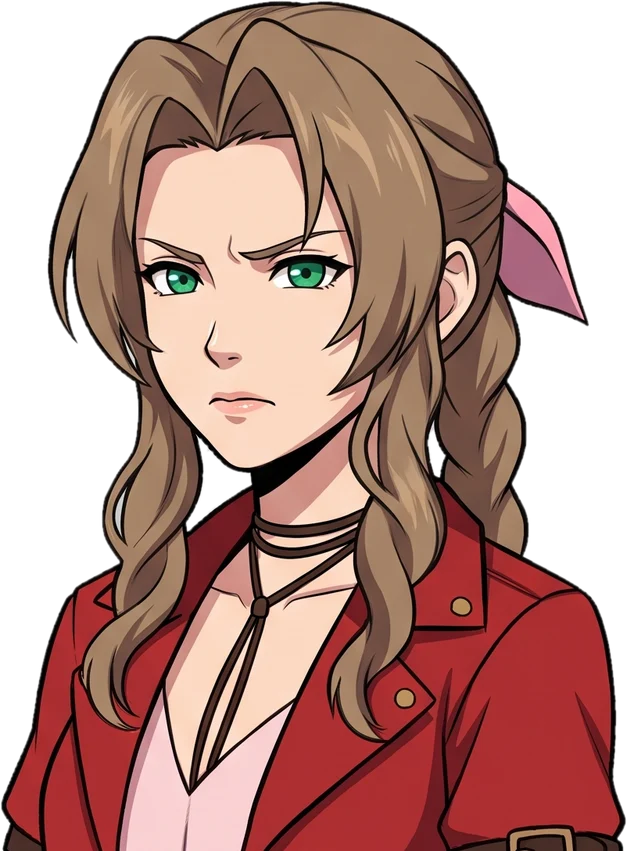
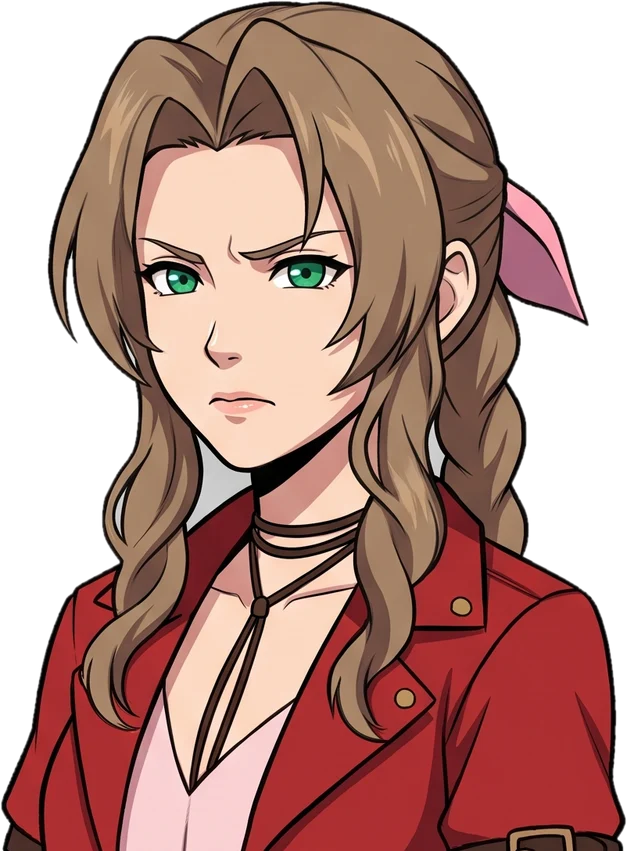
Ana's portraits; sheet tool keeps background-colored fabric patches

Changed region(s): [[0.2701, 0.5194, 0.4202, 0.6416], [0.6603, 0.4888, 0.7204, 0.5499]]

diff --git a/assets/femc/links/mercy.js b/assets/femc/links/mercy.js
@@ -394,24 +394,24 @@ FemcSocial.define({
     { after: '7/23', title: '4: ana', place: 'Tatsumi Memorial Hospital · Staff Lounge', scene: [
       { n: "The staff lounge had a broken air conditioner and a fridge full of other people's lunches, and on this particular afternoon it had an old woman in it, sitting in Angela's chair, drinking Angela's tea, with an eye patch and a sniper rifle leaned casually against the vending machine." },
       { register: 'ana' },
-      { s: 'ana', t: "So this is the girl. Habibti, she's younger than you said." },
+      { s: 'ana', f: 'happy', t: "So this is the girl. Habibti, she's younger than you said." },
       { s: 'mercy', f: 'surprised', t: "Ana! I didn't say anything about her!" },
-      { s: 'ana', t: "You didn't have to. You keep looking at the door." },
+      { s: 'ana', f: 'neutral', t: "You didn't have to. You keep looking at the door." },
       { n: "Ana Amari looked at Solar the way grandmothers look at people their grandchildren bring home, which was to say thoroughly, skeptically, and with the clear understanding that she had seen a great deal and would not be easily impressed." },
-      { s: 'ana', t: "And do you take care of her? Or does she take care of you?" },
+      { s: 'ana', f: 'neutral', t: "And do you take care of her? Or does she take care of you?" },
       { choose: [
-        { t: "Both, I think.", notes: 3, then: [{ s: 'ana', t: "Good answer. The only right one." }] },
+        { t: "Both, I think.", notes: 3, then: [{ s: 'ana', f: 'happy', t: "Good answer. The only right one." }] },
         { t: "Nobody takes care of Angela. She won't let them.", notes: 3, then: [
-          { s: 'ana', t: "Ha! She knows you." },
+          { s: 'ana', f: 'happy', t: "Ha! She knows you." },
           { s: 'mercy', f: 'flustered', t: "I am standing right here." }
         ] }
       ] },
-      { s: 'ana', t: "She was the youngest of us, back then. Overwatch. All those heroes, and she was the one who stayed up every night patching them back together." },
-      { s: 'ana', t: "And when it all fell apart, she was the one who still tried to save everybody. Even the ones who didn't deserve it." },
+      { s: 'ana', f: 'sad', t: "She was the youngest of us, back then. Overwatch. All those heroes, and she was the one who stayed up every night patching them back together." },
+      { s: 'ana', f: 'sad', t: "And when it all fell apart, she was the one who still tried to save everybody. Even the ones who didn't deserve it." },
       { s: 'mercy', f: 'sad', t: "...Ana." },
-      { s: 'ana', t: "I'm only saying what's true. Someone should." },
+      { s: 'ana', f: 'serious', t: "I'm only saying what's true. Someone should." },
       { n: "When Ana left, fading at the edges like the others, she patted Angela's cheek with a hand that had pulled a thousand triggers, and Solar watched the doctor lean into it for a second like a much younger woman." },
-      { s: 'ana', t: "Make her sleep, little one. That's an order." }
+      { s: 'ana', f: 'happy', t: "Make her sleep, little one. That's an order." }
     ] },
 
     { after: '8/6', title: '5: guardian angel', place: 'Tatsumi Memorial Hospital · Rooftop', scene: [

diff --git a/femc-social.js b/femc-social.js
@@ -83,7 +83,7 @@ window.FemcSocial = (() => {
     const base = face && face.replace(/-\d+$/, '');
     const CLOSE = { blushing: ['flustered', 'happy'], flustered: ['blushing', 'happy'], serious: ['sad'], surprised: [], sad: [] };
     const pick = [face, base, ...(CLOSE[base] || []), 'neutral', have[0]].find(f => f && have.includes(f));
-    return pick ? `${F().base}assets/femc/portraits/${id}/${pick}.webp?v=14` : null;
+    return pick ? `${F().base}assets/femc/portraits/${id}/${pick}.webp?v=15` : null;
   }
 
   /* ── Styles ──────────────────────────────────────── */
@@ -1009,7 +1009,7 @@ window.FemcSocial = (() => {
   function load() {
     if (ready) return ready;
     const L = F().load;
-    ready = Promise.all([L('assets/femc/portraits/index.js?v=19', () => window.FEMC_PORTRAITS), L('assets/femc/backgrounds.js?v=4', () => window.FEMC_BG), L('assets/femc/tarot/index.js?v=2', () => window.FEMC_TAROT), L('assets/femc/profile/index.js?v=1', () => window.FEMC_PROFILE), L('assets/femc/links/index.js?v=20', () => window.FEMC_LINK_FILES)])
+    ready = Promise.all([L('assets/femc/portraits/index.js?v=20', () => window.FEMC_PORTRAITS), L('assets/femc/backgrounds.js?v=4', () => window.FEMC_BG), L('assets/femc/tarot/index.js?v=2', () => window.FEMC_TAROT), L('assets/femc/profile/index.js?v=1', () => window.FEMC_PROFILE), L('assets/femc/links/index.js?v=20', () => window.FEMC_LINK_FILES)])
       .then(() => Promise.all((window.FEMC_LINK_FILES || []).map(id => L(`assets/femc/links/${id}.js?v=37`, () => links[id]))))
       .then(() => { if (document.body) testPanel(); else addEventListener('DOMContentLoaded', testPanel); return links; });
     return ready;

diff --git a/compendium.html b/compendium.html
@@ -57,17 +57,17 @@
 
   <script src="achievements.js?v=9"></script>
   <script src="assets/femc/compendium.js?v=4"></script>
-  <script src="assets/femc/portraits/index.js?v=19"></script>
+  <script src="assets/femc/portraits/index.js?v=20"></script>
   <script src="assets/femc/profile/index.js?v=1"></script>
   <script>
   (function () {
     const ENTRIES = (window.FEMC_COMPENDIUM || []).filter(e => !e.secret || window.femcCompendiumOpen(e));
     // Anyone with a neutral portrait in assets/femc/portraits gets it here automatically.
     // Hand-set portrait paths get the current image version so regenerated portraits show up.
-    ENTRIES.forEach(e => { if (e.img && e.img.startsWith('assets/femc/portraits/') && !e.img.includes('?')) e.img += "?v=14"; });
+    ENTRIES.forEach(e => { if (e.img && e.img.startsWith('assets/femc/portraits/') && !e.img.includes('?')) e.img += "?v=15"; });
     // Full-body art (assets/femc/profile) wins over everything else.
     ENTRIES.forEach(e => { if ((window.FEMC_PROFILE || []).includes(e.id)) { e.img = `assets/femc/profile/${e.id}.webp?v=1`; e.profile = true; } });
-    ENTRIES.forEach(e => { if (!e.img && (window.FEMC_PORTRAITS?.[e.id] || []).includes('neutral')) e.img = `assets/femc/portraits/${e.id}/neutral.webp?v=14`; });
+    ENTRIES.forEach(e => { if (!e.img && (window.FEMC_PORTRAITS?.[e.id] || []).includes('neutral')) e.img = `assets/femc/portraits/${e.id}/neutral.webp?v=15`; });
     const $ = id => document.getElementById(id);
     const F = () => window.FemcMode;
     const isOpen = e => window.femcCompendiumOpen(e);

diff --git a/assets/femc/portraits/index.js b/assets/femc/portraits/index.js
@@ -273,5 +273,11 @@ window.FEMC_PORTRAITS = {
   "neutral",
   "sad",
   "serious"
+ ],
+ "ana": [
+  "happy",
+  "neutral",
+  "sad",
+  "serious"
  ]
 };

diff --git a/tools/femc-sheet.py b/tools/femc-sheet.py
@@ -74,6 +74,20 @@ def cut_background(im, tol=26):
                 q.append((nx, ny))
     # Pockets of background boxed in by hair, collars and shoulders: any other patch of background color
     # big enough not to be a stray highlight goes too.
+    # A real gap between hair and shoulder is ringed by the black lineart; a matching patch of fabric
+    # (camo, a gray stripe) is surrounded by other fabric colors and must stay.
+    def outlined(region):
+        inside = set(region)
+        dark = total = 0
+        for x, y in region[::max(1, len(region) // 400)]:
+            for dx, dy in ((3, 0), (-3, 0), (0, 3), (0, -3)):
+                nx, ny = x + dx, y + dy
+                if (nx, ny) in inside or not (0 <= nx < w and 0 <= ny < h) or mk[nx, ny]:
+                    continue
+                total += 1
+                dark += min(px[nx, ny][:3]) < 90
+        return total == 0 or dark / total > 0.45
+
     seen = Image.new('L', (w, h), 0)
     sk = seen.load()
     for y0 in range(h):
@@ -89,7 +103,7 @@ def cut_background(im, tol=26):
                     if 0 <= nx < w and 0 <= ny < h and not sk[nx, ny] and not mk[nx, ny] and pocket(px[nx, ny]):
                         sk[nx, ny] = 1
                         q.append((nx, ny))
-            if len(region) >= max(60, w * h // 4000):
+            if len(region) >= max(60, w * h // 4000) and outlined(region):
                 for x, y in region:
                     mk[x, y] = 255
     alpha = m.filter(ImageFilter.MaxFilter(3)).filter(ImageFilter.GaussianBlur(1)).point(lambda v: 255 - v)
